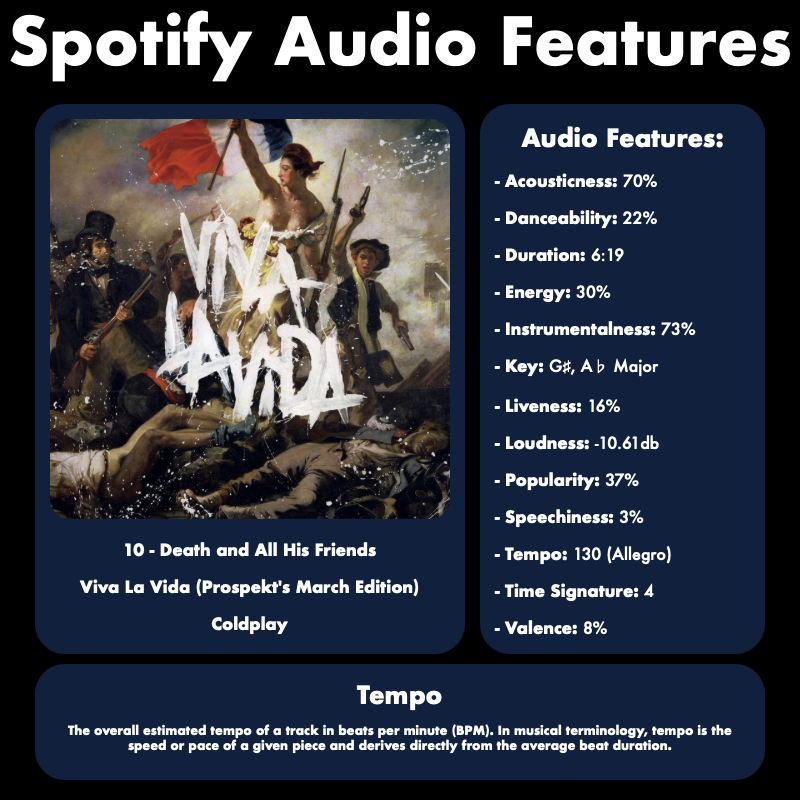
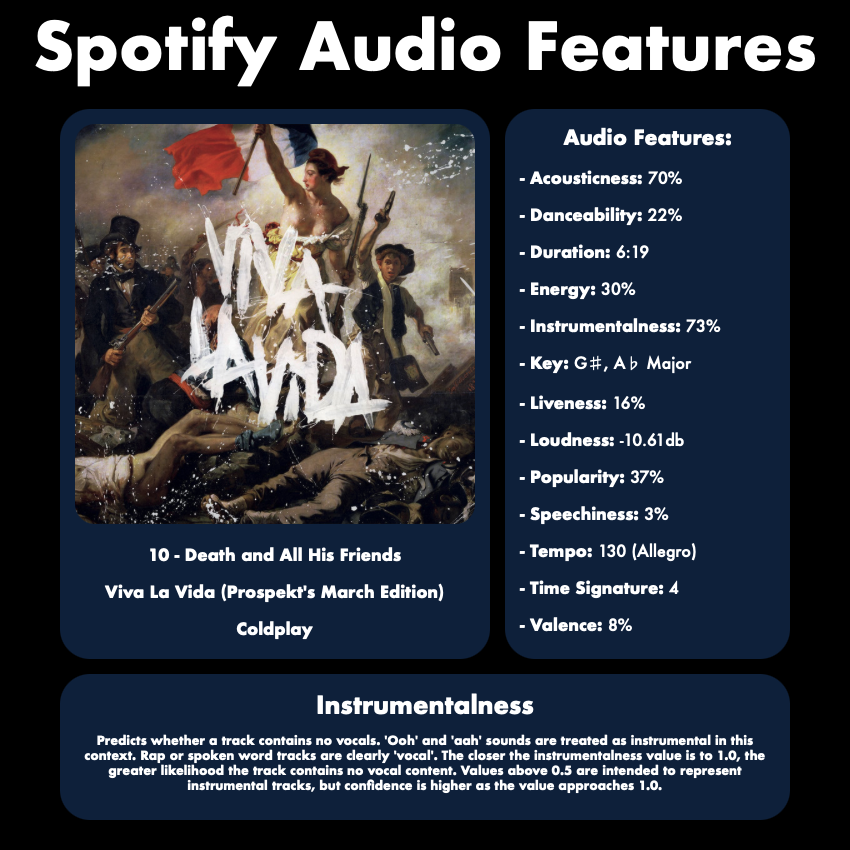
small margin error

diff --git a/spotify.html b/spotify.html
@@ -33,8 +33,8 @@
 				<p><span id="album" style="font-size: 16px; display: inline-block;"></span></p>
 				<p><span id="artist" style="font-size: 16px; display: inline-block;"></span></p>
 			</div>
-			<div style="margin: auto; padding: 15px; padding-top: 18px; padding-bottom: 12px; border-radius: 30px; display: none; vertical-align: top; width: 255px; height: 520px;" id="wrapper2">
-				<span style="font-size: 24px">Audio Features: </span>
+			<div style="margin: auto; margin-left: 0px; padding: 15px;  border-radius: 30px; display: none; vertical-align: top; width: 255px; height: 520px;" id="wrapper2">
+				<span style="font-size: 20px">Audio Features: </span>
 				<p style="text-align: left; font-size: 16px;" onmouseenter="hover( 0)" onmouseleave="hover(-1)">- Acousticness: <span style="font-weight: normal;" id="acousticness"></span></p>
 				<p style="text-align: left; font-size: 16px;" onmouseenter="hover( 1)" onmouseleave="hover(-1)">- Danceability: <span style="font-weight: normal;" id="danceability"></span></p>
 				<p style="text-align: left; font-size: 16px;" onmouseenter="hover( 2)" onmouseleave="hover(-1)">- Duration: <span style="font-weight: normal;" id="duration_ms"></span></p>
@@ -49,7 +49,7 @@
 				<p style="text-align: left; font-size: 16px;" onmouseenter="hover(11)" onmouseleave="hover(-1)">- Time Signature: <span style="font-weight: normal;" id="time_signature"></span></p>
 				<p style="text-align: left; font-size: 16px;" onmouseenter="hover(12)" onmouseleave="hover(-1)">- Valence: <span style="font-weight: normal;" id="valence"></span></p>
 			</div>
-			<div style="margin: auto; margin-top: 10px; padding: 15px; border-radius: 30px; display: none; vertical-align: top; width: 700px;" id="wrapper3">
+			<div style="margin: auto; margin-top: 15px; padding: 15px; border-radius: 30px; display: none; vertical-align: top; width: 700px;" id="wrapper3">
 				<span style="font-size: 24px" id="info_title"></span>
 				<p style="font-size: 12px" id="info"></p>
 			</div>
